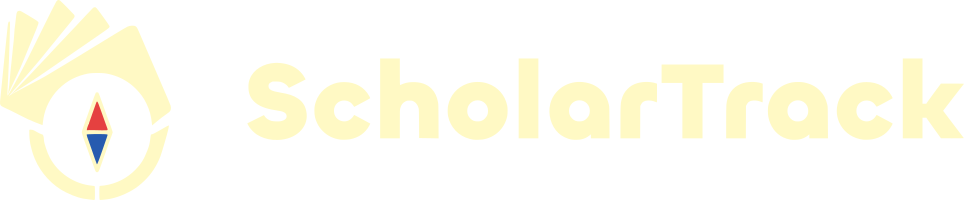
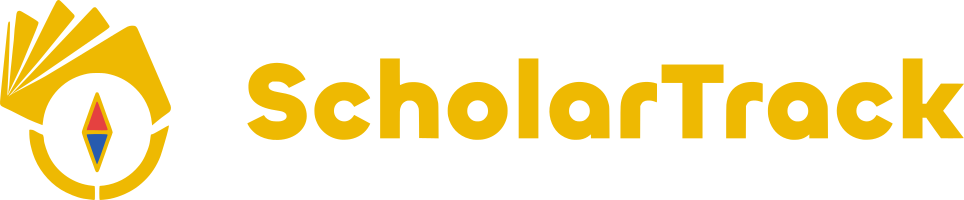
First commit of the year, many changes

Changed region(s): [[0.249, 0.27, 1.0, 0.72], [0.0, 0.0, 0.1867, 1.0]]

diff --git a/static/style.css b/static/style.css
@@ -1,18 +1,16 @@
 body {
-    background-color: #2d3b55;
-    color: #fff9c4
+    background-color: #0e1425;
+    color: #eeb902
 }
 
-/* COLORS
-==========
-Soft Navy Blue (Primary)
---soft-navy: #2d3b55;
-
-Pale Banana Yellow (Accent)
---pale-yellow: #fff9c4;
-
-Warm Gray (Neutral)
---warm-gray: #4a5568; */
+/*
+Color palette for ScholarTrack: 
+Navy Blue:        #0e1425
+Steel Blue:       #2d7dd2
+Yellow Green:     #97cc04
+Saffron Yellow:   #eeb902
+Persimmon Orange: #f45d01
+*/
 
 .main-title-container {
     position: relative;
@@ -40,27 +38,27 @@ Warm Gray (Neutral)
     text-align: center;
 }
 
-a.one:link {color: #e0fd97;}
-a.one:visited {color: #e0fd97;}
+a.one:link {color: #97cc04;}
+a.one:visited {color: #97cc04;}
 
-a.two:link {color: #65ee8e;}
-a.two:visited {color: #65ee8e;}
+a.two:link {color: #f45d01;}
+a.two:visited {color: #f45d01;}
 
 table {
-    background-color: #2d3b55;
+    background-color: #28354d;
     border-collapse: collapse;
     width: 98%;
     margin-left: auto;
     margin-right: auto;
-    color: #fff9c4
+    color: #eeb902
 }
 
 tr:nth-child(even) {
-    background-color: #4a5568;
+    background-color: #31405e;
 }
 
 th {
-    background-color: #026186;
+    background-color: #1a497a;
     font-weight: bold;
     text-align: center;
 }

diff --git a/templates/edit_task.html b/templates/edit_task.html
@@ -100,7 +100,6 @@
             <option value="invited (task open)"
             {% if task.status == 'invited (task open)' %}selected{% endif %}>invited (task open)</option>
 
-
             <option value="partial accepted (task open)"
             {% if task.status == 'partial accepted (task open)' %}selected{% endif %}>
                 partial accepted (task open)
